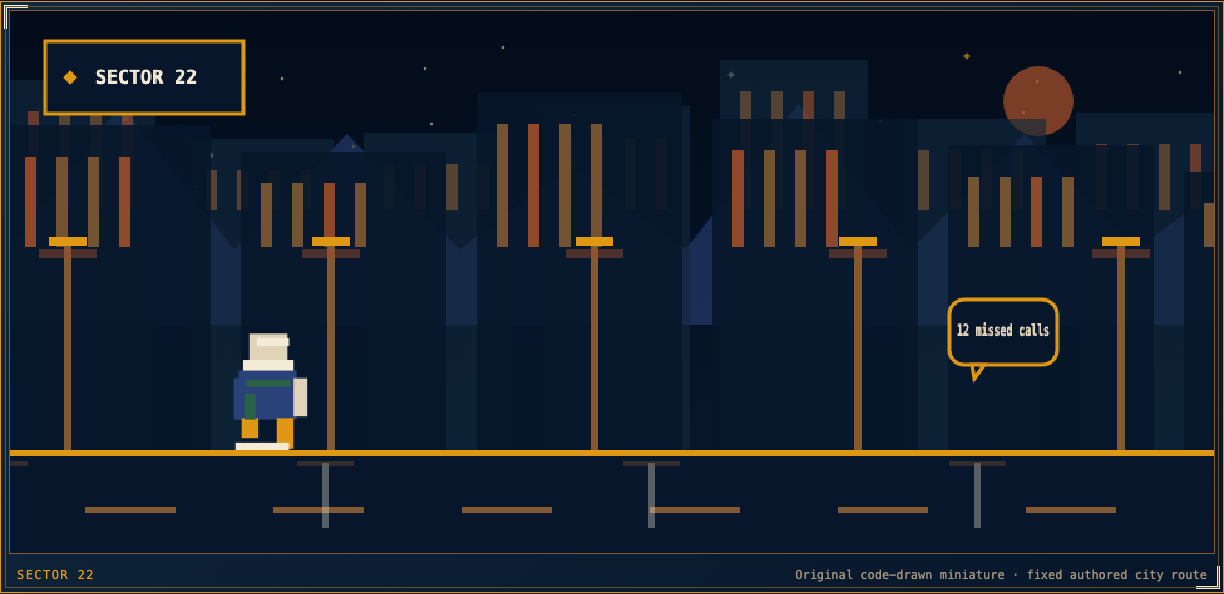
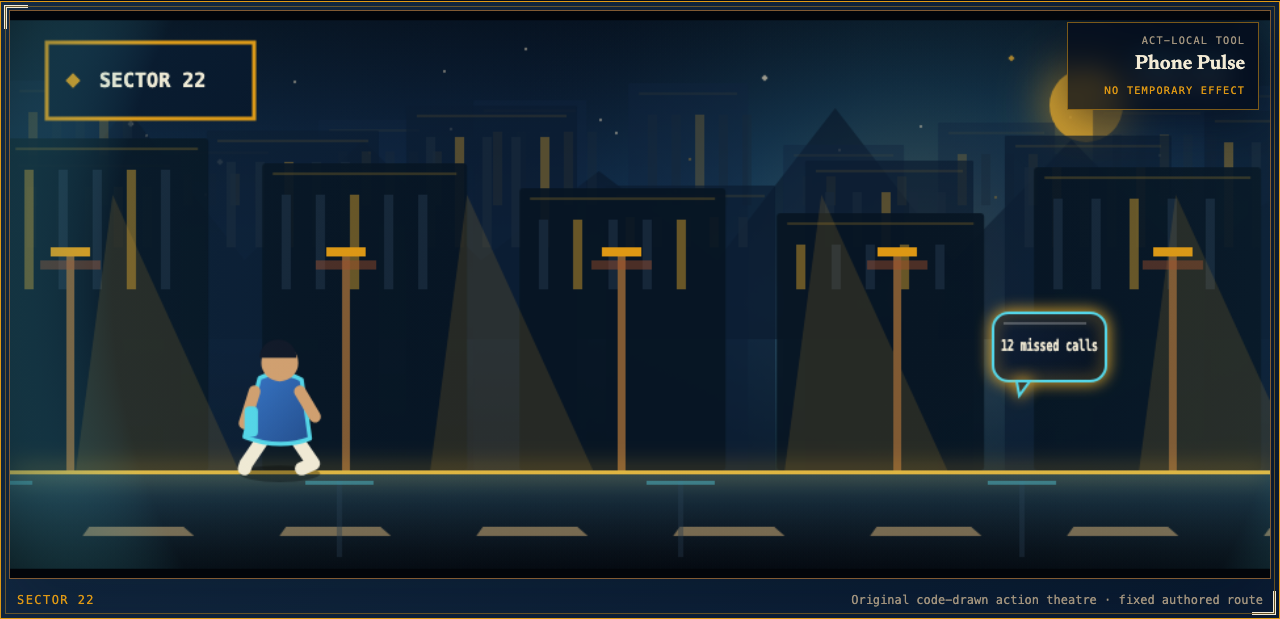
test(house): prove cinematic Sector Sprint

diff --git a/apps/house/src/house.ts b/apps/house/src/house.ts
@@ -543,7 +543,7 @@ function prepareRunnerCanvas(canvas: HTMLCanvasElement): CanvasRenderingContext2
 function drawCurrentRunnerFrame() {
   const canvas = document.querySelector<HTMLCanvasElement>("#runnerCanvas");
   const context = canvas ? prepareRunnerCanvas(canvas) : null;
-  if (!context || !runnerState) return;
+  if (!canvas || !context || !runnerState) return;
   drawRunnerFrame(
     context,
     { ...runnerState, paused: runnerIsSuspended() },

diff --git a/docs/adr/0015-add-the-bounded-sector-sprint.md b/docs/adr/0015-add-the-bounded-sector-sprint.md
@@ -1,19 +1,21 @@
 # Add the bounded Sector Sprint table
 
-Sector Sprint is the fifth Grand Salon table: an original, code-drawn side-scrolling Chandigarh comedy for adults, led by Gurpreet and his mother Harjit. It keeps the requested automatic forward motion, jumps, harmless message sparks, escalating authored scenes, Punjabi-family wit, and five-Act city journey while rejecting the requested endless route, score, high score, failure loop, and fatigue-to-sleep framing.
+Sector Sprint is the fifth Grand Salon table: an original, code-drawn side-scrolling Chandigarh action comedy for adults, led by Gurpreet and his mother Harjit. It combines automatic forward motion with optional variable-height leaps, one air step, dash, contextual vault, aerial stomp, five Act-local harmless tools, three deterministic temporary effects, escalating authored scenes, Punjabi-family wit, and a five-Act city journey while rejecting an endless route, score, high score, health, lives, failure loop, randomized loot, persistent inventory, and fatigue-to-sleep framing.
 
 The action route has five fixed Acts: Ghar Wapsi, Sabzi Command, Baraat Detour, Monsoon Protocol, and Roti Relay. Each Act advances for exactly 32 seconds of foreground-active engine time, then moves through its own deterministic House praise. The engine and whole-table clock consume the same bounded frame delta, so a long main-thread stall cannot charge unseen Act time. Optional object density rises from five in the opening lane to nine in the home lane; the later Acts add original mandi, baraat, monsoon, and ghar scenery without introducing failure. The whole table also has a 240-second foreground-active boundary. Reaching that boundary before all five Acts closes the table without storing or displaying a completion. Pausing, hiding, or blurring suspends Acts and inter-Act transitions and resets the animation timestamp so background time cannot be charged on return.
 
-Jump and a context-specific message spark are optional. Sparks can transform only allowlisted inanimate abstractions such as missed-call bubbles, price tags, puddles, produce baskets, route bubbles, streamers, and grocery lists. The game has no human, animal, vehicle, or building target. Collisions produce a visible witty line and never remove progress, reset an Act, create health, or create failure.
+Every action is optional. Leap uses input buffering, coyote time, and a generous held-height window; a second press in the air creates one air step. Dash becomes a contextual vault near low interference and an aerial stomp while airborne. Each Act supplies one fixed tool: Phone Pulse, Bargain Burst, Dhaaga Arc, Umbrella Wave, or the synchronized Ghar Flare. Their projectile grammars differ in reach, spread, arc, lift, and piercing behavior, but they can transform only allowlisted inanimate abstractions such as missed-call bubbles, price tags, puddles, produce baskets, route bubbles, streamers, and grocery lists. People, animals, vehicles, and buildings cannot enter a target set.
 
-The presentation is a token-driven moving miniature theatre rather than an imported arcade skin. Each Act has a deterministic Chandigarh skyline and its own authored street layer: late-return lamps, mandi stalls, baraat ribbons, monsoon rain, or the home approach. Gurpreet and Harjit are larger, role-specific code-drawn figures with bounded run, jump, landing, collision, and transformation responses. Camera movement is capped at two logical pixels, spark effects are capped at 24 particles, active spark objects are capped at four, and no effect uses randomness or carries semantic progress. Reduced motion freezes parallax and suppresses camera, impact, landing, and flourish effects.
+The route authors one broad temporary-effect gate per Act. Phulkari Guard transforms the next would-be collision, Chaa Overdrive strengthens the next tool action, and Monsoon Lift extends the next aerial sequence. These are temporary scene effects, not inventory or rewards: they have no counter, do not persist, reset at every Act, and may all be missed without changing content access, Act order, timing, closure, or completion. An unguarded collision creates one brief presentation-only stumble and witty line. It cannot change logical position, velocity, input availability, forward motion, or Act time, and one encountered interference cannot retrigger.
 
-Canvas drawing keeps a fixed `960 × 432` logical stage and scales its backing surface up to a device-pixel-ratio cap of 2. Resize redraws the current state without advancing the engine. Optional action and curtain cues share one synthesized audio context; sound starts off, creates no queued resume cue, and is closed when sound is disabled or the route pauses, hides, blurs, exits, narrates, finishes, or reaches its boundary. Audio failure remains non-blocking.
+The presentation is a token-driven cinematic 2.5D action theatre rather than an imported arcade skin. Each Act has a deterministic Chandigarh skyline, four or more simulated depth layers, perspective road, Act color grade, layered Canvas lamps, and its own authored street layer: late-return lamps, mandi stalls, baraat ribbons, monsoon rain, or the home approach. Gurpreet and Harjit are smooth vector, role-specific figures with articulated run, leap, air-step, dash, vault, stomp, landing, collision, tool, and transformation responses. The logical stage remains `960 × 432`, device-pixel ratio remains capped at 2, camera response is capped at six logical pixels, effect particles remain capped at 24, active tool objects are capped at six, and synthesized audio voices remain capped at eight. No effect uses randomness, changes semantic progress, produces a full-canvas flash, or rapidly pulses luminance. Reduced motion uses the complete narrated route and suppresses parallax, camera response, flashes, after-images, dense rain/fog, and nonessential particles.
 
-The complete narrated route contains three authored city beats for every Act and reaches the same curtain call, celebration, and `mode: "entertainment"` provenance. Reduced-motion visitors begin on that route. No timed response, precision movement, audio, animation, or visual interpretation is required to complete the table: Pause holds the authored boundary, remains paused between narrated Acts, and leaves the narrated beat controls available. A semantic Pause or Resume control remains present in either route.
+Resize redraws the current state without advancing the engine. Optional action layers, a sparse deterministic Act pulse, and curtain cues share one locally synthesized audio context; sound starts off, begins only after an explicit user choice, creates no queued resume cue, and is closed when sound is disabled or the route pauses, hides, blurs, exits, narrates, finishes, or reaches its boundary. Audio failure remains non-blocking and every cue has a visible/text equivalent.
+
+The complete narrated route contains three rewritten action-set-piece beats for every Act and reaches the same curtain call, celebration, and `mode: "entertainment"` provenance. Reduced-motion visitors begin on that text route; narration never autoplays speech or sound. No timed response, precision movement, audio, animation, or visual interpretation is required to complete the table: Pause holds the authored boundary, remains paused between narrated Acts, and leaves the narrated beat controls available. Semantic Leap/Air step, Dash/Stomp, Act tool, Pause/Resume, and Narrated route controls back the Canvas action presentation.
 
 Active session storage contains only `gameId`, authored Act position, local run identifier, and narrated story-beat position. Coordinates, elapsed time, input history, collisions, transformed objects, and performance summaries remain in memory and are not persisted. Because the remaining boundary budget is deliberately not stored, a Sector Sprint document reload fails closed to the Grand Salon, clears the active marker, explains the exit, and records no completion. Completion keeps the existing replaceable five-chapter entertainment fact in the Gallery. There is no assessment input or output.
 
-All art is drawn from project-owned TypeScript and existing House tokens. No borrowed game name, character, level, image, sound, package, or runtime service is shipped. Nindova remains free and open source under Apache-2.0, with optional sound synthesized locally and zero telemetry or third-party runtime request. The repository can verify the richer original presentation, fixed behavior, and technical boundaries; it cannot verify an “AAA” quality label, cultural authenticity, or player enjoyment without representative adult playtesting.
+All art is drawn from project-owned TypeScript and existing House tokens. No borrowed game name, character, level, image, sound, package, or runtime service is shipped. Nindova remains free and open source under Apache-2.0, with optional sound synthesized locally and zero telemetry or third-party runtime request. The engineering target is AAA-inspired audiovisual polish at premium indie browser scope. The repository can verify the richer original presentation, fixed behavior, responsiveness, and technical boundaries; it cannot verify an “AAA” quality label, cultural authenticity, or player enjoyment without representative adult playtesting.
 
 This decision does not change Masala Mound or any Night Room rule. It does not claim that Sector Sprint makes a person sleepy, tired, culturally represented, or cognitively measured; those outcomes have no supporting human evidence in this repository.

diff --git a/docs/testing/sector-sprint-game-feel.md b/docs/testing/sector-sprint-game-feel.md
@@ -1,0 +1,23 @@
+# Sector Sprint cinematic game-feel checkpoint
+
+## Authored encounter matrix
+
+Every encounter is deterministic. Times are derived from fixed world positions on the 32-second Act path; pause, hide, and blur suspend the shared foreground clock. Temporary effects reset at each Act boundary and never enter local or session storage.
+
+| Act | Authored encounter window | Movement showcase | Act-local tool and allowlisted target | Temporary-effect gate | Transformation and collision presentation | Narrated equivalent |
+| --- | --- | --- | --- | --- | --- | --- |
+| Ghar Wapsi | x 760–3420 · 6.0–26.8 s | Variable leap, air step, street dash, low vault | Phone Pulse · missed calls, lists, puddles | Phulkari Guard · x 1665 · 13.1 s | A focused reply flare resolves phone noise; Guard folds one collision into the road pattern; otherwise one cosmetic stumble | Lamps, movement line, Phone Pulse, Guard, and gate arrival are stated across three city beats |
+| Sabzi Command | x 690–3290 · 5.4–25.8 s | Low vault and close dash | Bargain Burst · price tags, produce baskets, lists | Chaa Overdrive · x 1610 · 12.6 s | A widening cone settles a group; Overdrive adds a third lane and piercing transformation; collision is one cosmetic recoil | Mandi entry, wide bargain action, and exact-change exit are stated |
+| Baraat Detour | x 720–3390 · 5.6–26.6 s | Air step above ribbon and aerial stomp | Dhaaga Arc · streamers, route bubbles | Monsoon Lift · x 1705 · 13.4 s | A piercing returning arc opens only loose abstractions and passes harmlessly around the celebration | Layered streamers, side lane, Lift, and no-contact passage are stated |
+| Monsoon Protocol | x 650–3340 · 5.1–26.2 s | Lifted air line and stomp landing | Umbrella Wave · puddles, lists, route bubbles | Phulkari Guard · x 2315 · 18.2 s | A rising arc transforms rain interference and can lift trajectory; collision/Guard behavior remains presentation-only | Lit rain sheets, wave transformations, and dry-side arrival are stated |
+| Roti Relay | x 690–3360 · 5.4–26.4 s | Duo dash and final three-lane action | Ghar Flare · all seven allowlisted inanimate kinds | Chaa Overdrive · x 1805 · 14.2 s | Three coordinated lanes become five under Overdrive; Gurpreet and Harjit are the source of the action and can never be targets | Mixed reminders, mother/son choreography, and the final pool of lamplight are stated |
+
+## Verified gates
+
+- `node --test tests/unit/sector-sprint.test.mjs` proves four distinct movement expressions plus contextual vault, five distinct tool grammars, three deterministic temporary effects, allowlisted target classes, presentation-only collisions, exact 32-second closure, and explicit effect budgets.
+- `npm run test:house` completes the five-Act action and narrated routes, inspects every Act at 375×812, verifies 320px and desktop layouts, touch targets, keyboard controls, pause/blur/hidden suspension, the 240-second boundary, compact active storage, reduced motion, audio closure, same-origin requests, and cold offline House navigation.
+- `npm run test:runner-feel` measures six samples each for Leap, Dash, and Tool from the input event to the first Canvas frame tagged with that action at 375×812 under 4× CPU throttling. It also measures 120 sustained frame intervals under that profile and at 1440×900. The gate requires action p95 below 150 ms, throttled frame p95 at or below 50 ms, and desktop frame p95 at or below 25 ms.
+
+## Evidence boundary
+
+The automated and rendered checks establish deterministic mechanics, technical responsiveness, bounded effects, layouts, and closure behavior in Chromium. They do not establish equivalent native Mobile Safari frame pacing, real-device assistive-technology meaning, cultural authenticity, an AAA production label, or representative adult enjoyment.

diff --git a/docs/PUBLIC-SURFACE-EVIDENCE.md b/docs/PUBLIC-SURFACE-EVIDENCE.md
@@ -1,5 +1,15 @@
 # Public-surface evidence ledger
 
+## Verified locally on 2026-08-04 — Sector Sprint cinematic action overhaul
+
+- Sector Sprint now uses a layered, simulated-depth Canvas stage with Act-specific lighting, architecture, weather, vector figures, target staging, camera response, impact particles, and an updated 1280×619 source-rendered public capture. The scope is premium browser action presentation, not a claim of native AAA production parity.
+- The deterministic 240-second route keeps five ordered 32-second Acts and the original House closure boundary. Its action vocabulary now includes a buffered, variable-height leap with coyote time; one air step; a ground dash or contextual vault; an aerial stomp; five Act-local tools; and three deterministic temporary effects.
+- Tools are harmless and route-specific: Phone Pulse, Bargain Burst, Dhaaga Arc, Umbrella Wave, and Ghar Flare only affect their documented presentation targets. Collisions produce presentation-only stumbles, and Phulkari Guard converts one stumble into a flourish; neither changes world position, route time, input access, or Session outcome.
+- The runner still has no score, health, lives, streaks, countdown, missed-night language, random reward, fail state, collection, or persistent upgrade. All added pickups, tools, particles, camera effects, and audio are Act-local or Session-local; Narrated route remains a complete non-action equivalent and optional sound remains local Web Audio.
+- `npm run check` passes with 78 unit tests, zero Astro diagnostics, and the composed production build. `npm run test:house`, `npm run test:public`, and `npm run test:pwa` pass across the standalone House, composed PWA, responsive layouts, narration, keyboard/nonvisual route, offline closure, same-origin privacy, and Night isolation gates.
+- The dedicated Chromium game-feel gate passed at 375×812 under 4× CPU slowdown with six samples per action and 120 frame samples: p95 Leap 15.9 ms, Dash 3.3 ms, Tool 4.1 ms, and frame interval 33.5 ms. The 1440×900 desktop p95 frame interval was 18.5 ms. Enforced ceilings are 150 ms action response, 50 ms throttled-phone frame interval, and 25 ms desktop frame interval.
+- Desktop and 375×812 source-rendered checks cover all five Acts, the five-control layout, reduced motion, and the refreshed public capture. Native Mobile Safari, physical-device thermals/battery, real assistive-technology use, human cultural-authenticity review, and human judgments of fun, polish, or AAA parity remain unverified.
+
 ## Verified locally on 2026-08-04 — House-first public-surface refresh
 
 - The local README, Astro landing page, Starlight docs, download guide, social card, and source-rendered product captures tell one House-first story while keeping the Night Room as a deliberately separate bounded loop.

diff --git a/apps/site/src/content/docs/docs/testing.md b/apps/site/src/content/docs/docs/testing.md
@@ -12,7 +12,8 @@ Nindova distinguishes three evidence levels:
 ## Gates
 
 - `test:unit` proves motif and layer counts for both profiles, covered/open-side behavior, Deeper's three-step decoy/search proxy, deterministic recipes, exhaustive 382-state Gentle and 510-state Deeper solvability, contrast and brand-asset rules, recipe-two completion preservation, state sanitization/migration, captured-zone Dawn boundaries, and export utilities.
-- `test:house` completes every chapter or Act of all five Salon games through production controls; checks Sector Sprint action auto-advance and full closure, exact whole-table boundary without false completion, 239-second reload fail-closed behavior, blur/hidden/pause suspension during Acts and transitions, paused-narration completion without chime, action controls, global pointer cancellation, narrated and reduced-motion routes, compact active storage, 320px/desktop runner rendering, keyboard/focus and nonvisual Stack state, adult-boundary behavior, result replacement, corrupt recovery, Gallery clearing, responsive layouts, same-origin requests, direct Night isolation, and a cold offline navigation after clearing the HTTP cache.
+- `test:house` completes every chapter or Act of all five Salon games through production controls; checks Sector Sprint action auto-advance and full closure, exact whole-table boundary without false completion, 239-second reload fail-closed behavior, blur/hidden/pause suspension during Acts and transitions, paused-narration completion without chime, five Act-local tools, variable movement controls, global pointer cancellation, narrated and reduced-motion routes, compact active storage, 320px/desktop runner rendering, keyboard/focus and nonvisual Stack state, adult-boundary behavior, result replacement, corrupt recovery, Gallery clearing, responsive layouts, same-origin requests, direct Night isolation, and a cold offline navigation after clearing the HTTP cache.
+- `test:runner-feel` measures Leap, Dash, and Tool input-to-first-action-frame latency at 375×812 under 4× CPU throttling and sustained frame pacing under that phone profile and at 1440×900.
 - Assessment-readiness unit coverage proves unsupported evidence leaves gates unmet, entertainment results are ineligible, and even a complete evidence fixture cannot authorize research collection or public cognitive output.
 - `test:public` covers the landing page and visual-identity docs at 320, 375, 414, 768, and 1440px, real image loading, 44px calls to action, 200% zoom, reduced motion, and horizontal overflow.
 - `test:arc` removes all 18 pairs through `window.__ct`, asserts `intake → play → settling → end`, immutable copy, local completion, screenshots, and zero browser errors.

diff --git a/apps/site/src/content/docs/docs/accessibility.md b/apps/site/src/content/docs/docs/accessibility.md
@@ -5,7 +5,7 @@ description: Native Salon and Night controls, text labels, focus-preserving keyb
 
 Grand Salon and Rasoi Pairs use native HTML controls for every required action. Salon rerenders deliberately restore logical focus after an answer, Lantern cover, Stack move, Sector Sprint story beat, chapter transition, and curtain call. Stack plinths announce the ordered discs and current top disc; visible geometry is not the only state source.
 
-Sector Sprint's Canvas route advances automatically and exposes native Jump, harmless-spark, Pause, and narrated-route controls. Collisions never fail or reset the route. A large external approaching-object cue and the live region report Canvas information in text. Reduced motion starts directly in the complete three-beat-per-Act narrated route, which reaches the same deterministic curtain call and requires no timed response, precision, sound, animation, or visual interpretation. Pause holds active time for either route while narrated beat controls remain available and Pause persists between narrated Acts; paused narration does not play the optional chime. An unfinished route that reaches the absolute boundary or reloads without its in-memory clock closes without claiming completion.
+Sector Sprint's Canvas route advances automatically and exposes native Leap/Air step, Dash/Stomp, Act tool, Pause, and Narrated route controls. The one-button movement grammar includes input buffering, coyote time, a generous held-height window, one air step, contextual low vault, and aerial stomp; none is required to complete the route. Collisions create one presentation-only response and never change logical position, velocity, input access, route timing, completion, or progress. A large external next-interference cue, nonnumeric action-status labels, and the live region report Canvas information in text without announcing every frame. Reduced motion starts directly in the rewritten complete three-beat-per-Act text route, which reaches the same deterministic curtain call and requires no timed response, precision, sound, animation, or visual interpretation; speech and sound never autoplay. Pause holds active time for either route while narrated beat controls remain available and Pause persists between narrated Acts; paused narration does not play the optional chime. An unfinished route that reaches the absolute boundary or reloads without its in-memory clock closes without claiming completion.
 
 The Salon's visual Pattern and Mirror tasks are entertainment, not equivalent cognitive measurements. Text alternatives preserve operation and state, but no claim is made that an altered presentation measures the same construct.
 

diff --git a/apps/site/src/content/docs/docs/product-contract.md b/apps/site/src/content/docs/docs/product-contract.md
@@ -15,7 +15,7 @@ Anything that makes tonight harder to leave is a bug.
 
 - Five games, each with five authored chapters or Acts and a deterministic curtain call.
 - Chapter position is allowed inside the chosen entertainment game. There is no leaderboard, streak, randomized reward, social comparison, or attention-pressure language.
-- Sector Sprint is a fixed-route action table, not an endless runner. Automatic forward motion, jumps, and harmless sparks cannot create a score, high score, timer, lives, failure, progress loss, randomized reward, or claimed sleep effect. Its complete narrated route has the same entertainment provenance and curtain call. If the whole-table boundary arrives before every Act closes, the table exits without creating a Gallery completion.
+- Sector Sprint is a fixed-route action table, not an endless runner. Automatic forward motion, variable leaps, air step, dash/vault/stomp movement, five Act-local harmless tools, and deterministic temporary effects cannot create a score, high score, timer, health, lives, failure, progress loss, randomized reward, persistent inventory, or claimed sleep effect. People, animals, vehicles, and buildings can never be targets. Its complete narrated route has the same entertainment provenance and curtain call. If the whole-table boundary arrives before every Act closes, the table exits without creating a Gallery completion.
 - Completion is recorded only as a versioned entertainment result. The Gallery keeps at most one replaceable result per game.
 - Entertainment play does not produce an assessment result or infer a cognitive trait.
 - The House has no account, analytics, advertising, app telemetry, app-controlled remote logging, or third-party runtime request.

diff --git a/apps/site/src/content/docs/docs/roadmap.md b/apps/site/src/content/docs/docs/roadmap.md
@@ -7,7 +7,7 @@ description: What exists in the current source and what remains deliberately unc
 
 - Nindova House for adults 18 and over, with a spatial Grand Salon and separate Night Room.
 - Pattern Court, Mirror Forge, Stack Architect, and Lantern Ledger, each with five authored entertainment chapters and deterministic celebration.
-- Sector Sprint, an original code-drawn Chandigarh route led by Gurpreet and Harjit, with five fixed Acts, progressively denser comic objects, distinct city scenery, automatic forward motion, optional jumps and harmless message sparks, a complete narrated route, no score or failure state, an honest no-completion safety exit, and a deterministic curtain call.
+- Sector Sprint, an original cinematic code-drawn Chandigarh route led by Gurpreet and Harjit, with five fixed Acts, smooth vector figures, layered city depth, automatic forward motion, variable leap/air-step/dash/vault/stomp movement, five mechanically distinct Act-local harmless tools, three deterministic temporary effects, a complete narrated route, no score or failure state, an honest no-completion safety exit, and a deterministic curtain call.
 - Versioned `mode: "entertainment"` completion provenance, one replaceable local result per game, strict active-state recovery, and a visible Gallery clear action.
 - Independently scoped House and Night PWAs with cold-offline and base-path browser evidence.
 

diff --git a/apps/site/src/content/docs/docs/known-limitations.md b/apps/site/src/content/docs/docs/known-limitations.md
@@ -15,5 +15,5 @@ description: Honest evidence and product limits for the current Nindova House an
 These are visible limits, not shipped claims hidden in a backlog.
 - Grand Salon games are authored entertainment. They have not been normed on a representative adult sample and do not produce a validated population-normed, percentile, diagnostic, or cognitive-trait result.
 - The assessment-readiness module is a fail-closed evidence inventory, not validation evidence. It authorizes neither research collection nor public output.
-- Sector Sprint is an authored entertainment route. No human evidence establishes that it feels culturally authentic, produces a particular challenge curve, makes people tired, or helps them sleep.
+- Sector Sprint is an authored entertainment route. Automation establishes deterministic mechanics, bounded effects, Chromium input latency, and frame pacing; no human evidence establishes AAA quality, representative adult enjoyment, cultural authenticity, a particular challenge curve, tiredness, or a sleep effect. Native Mobile Safari performance remains unverified.
 - Automated browser coverage completes all five games, exercises Sector Sprint controls and narration, and verifies keyboard focus and semantic Stack state. It does not establish equivalent task meaning for alternative sensory presentations or replace real-device assistive-technology testing.

diff --git a/CONTEXT.md b/CONTEXT.md
@@ -16,7 +16,7 @@ _Avoid_: test center, leaderboard, daily challenge
 
 **Sector Sprint**
 
-The original, fixed five-Act Chandigarh route in the Grand Salon, led by Gurpreet and his mother Harjit. The street advances on its own; optional jumps and harmless message sparks change comic choreography around inanimate abstractions, while collisions only produce a quip. Every route closes, and the complete narrated route requires no timed response, sound, sight, or precision. Reaching the absolute boundary before all five Acts closes the table without recording a completion.
+The original, fixed five-Act Chandigarh route in the Grand Salon, led by Gurpreet and his mother Harjit. The street advances on its own; variable leaps, one air step, dash/vault/stomp movement, five Act-local harmless tools, and three deterministic temporary effects change comic choreography around inanimate abstractions, while collisions only create presentation feedback. Every route closes, and the complete narrated route requires no timed response, sound, sight, or precision. Reaching the absolute boundary before all five Acts closes the table without recording a completion.
 _Avoid_: endless runner, shooter, score attack, Contra clone, sleep inducer
 
 **Gallery**

diff --git a/README.md b/README.md
@@ -42,7 +42,7 @@ Each table has five fixed chapters or Acts and a designed curtain call. You repl
 - **Mirror Forge** — turn forms without losing their bearing.
 - **Stack Architect** — move a tower by law, one disc at a time.
 - **Lantern Ledger** — hold an ordered procession of light.
-- **Sector Sprint** — follow Gurpreet and Harjit through five fixed Chandigarh Acts with optional jumps, harmless message sparks, or a complete narrated route.
+- **Sector Sprint** — follow Gurpreet and Harjit through five cinematic Chandigarh Acts with variable leaps, air step, dash/vault/stomp movement, five Act-local harmless tools, three deterministic temporary effects, or a complete narrated route.
 
 The Salon has no public ranking, streak, randomized prize, social comparison, or assessment result. The local Gallery may keep only the latest completion fact for each game, and you can clear it from the interface.
 

diff --git a/docs/brand/ASSET-MANIFEST.md b/docs/brand/ASSET-MANIFEST.md
@@ -38,7 +38,7 @@ All assets original to this project. License: [CC0 1.0 Universal](https://creati
 | File | Dimensions | Purpose |
 |---|---|---|
 | nindova-house.png | 1440×937 | Source-rendered House floor plan used by the README and landing hero |
-| sector-sprint.png | 1224×594 | Source-rendered Sector Sprint route proof used by the landing page |
+| sector-sprint.png | 1280×619 | Source-rendered cinematic Sector Sprint route proof used by the landing page |
 | rasoi-board.png | 840×476 | Source-rendered Deeper Masala Mound board proof |
 | rasoi-pairs-phone.png | 375×812 | Source-rendered Night Room phone proof |
 | rasoi-dawn.png | 1200×750 | Source-rendered Dawn canvas proof |
